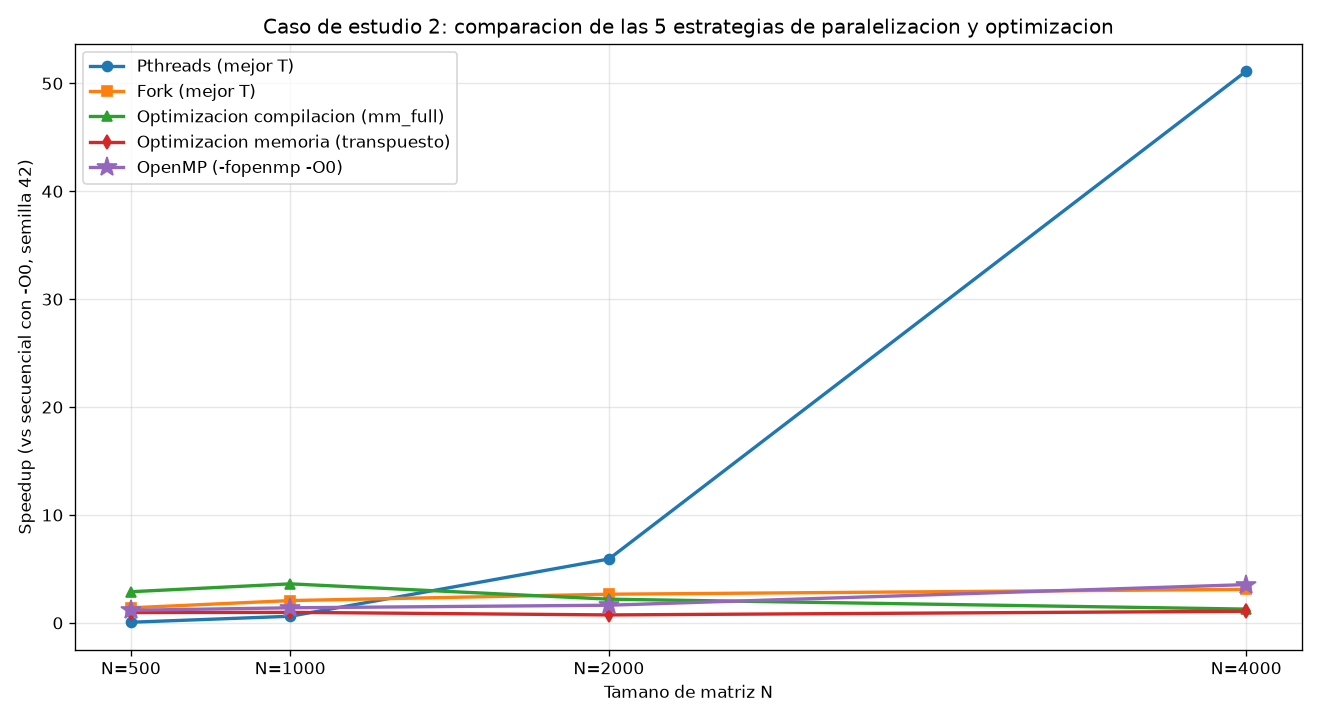
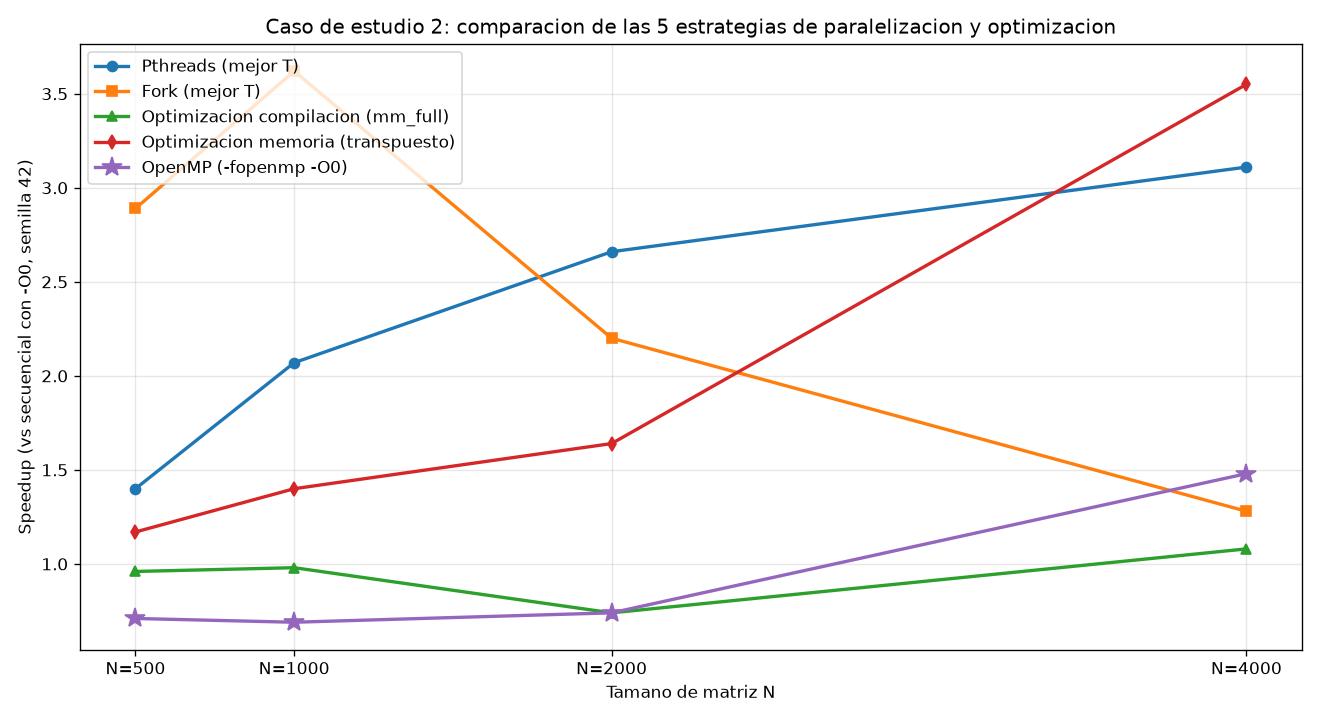
fix(plot_caso2_openmp): read speedup columns at correct index
Bug introduced when adding the T_openmp column to the CSV header (and
the T_opt suffix to T_pth_best/T_fork_best): the plot code was still
reading parts[6..10] for the speedup series, but the speedup columns
are now at parts[7..11]. As a result su_pth was filled with T_openmp
time (which reaches 55s at N=4000), making the pthreads curve spike
to ~50 on the speedup axis.

Fix: use parts[7..11] for the five speedup series.

After the fix, the 5 curves show the values that match the CSV table:
  N=4000  pth=3.11  fork=1.28  comp=1.08  mem=3.55  openmp=1.48

diff --git a/experiments/plot_caso2_openmp.py b/experiments/plot_caso2_openmp.py
@@ -200,11 +200,15 @@ for row in filas[1:]:
     parts = row.split(',')
     n = int(parts[0])
     ns_plot.append(n)
-    su_pth.append(_num(parts[6]))
-    su_fork.append(_num(parts[7]))
-    su_full.append(_num(parts[8]))
-    su_mem.append(_num(parts[9]))
-    su_openmp.append(_num(parts[10]))
+    # Header: N,T_seq,T_pth_best,T_fork_best,T_full,T_mem,T_openmp,
+    #         speedup_pth,speedup_fork,speedup_full,speedup_mem,speedup_openmp
+    # Indices: 0  1     2          3          4      5     6
+    #          7           8           9           10          11
+    su_pth.append(_num(parts[7]))
+    su_fork.append(_num(parts[8]))
+    su_full.append(_num(parts[9]))
+    su_mem.append(_num(parts[10]))
+    su_openmp.append(_num(parts[11]))
 
 ax.plot(ns_plot, su_pth, 'o-', label='Pthreads (mejor T)', linewidth=2, color='C0')
 ax.plot(ns_plot, su_fork, 's-', label='Fork (mejor T)', linewidth=2, color='C1')
